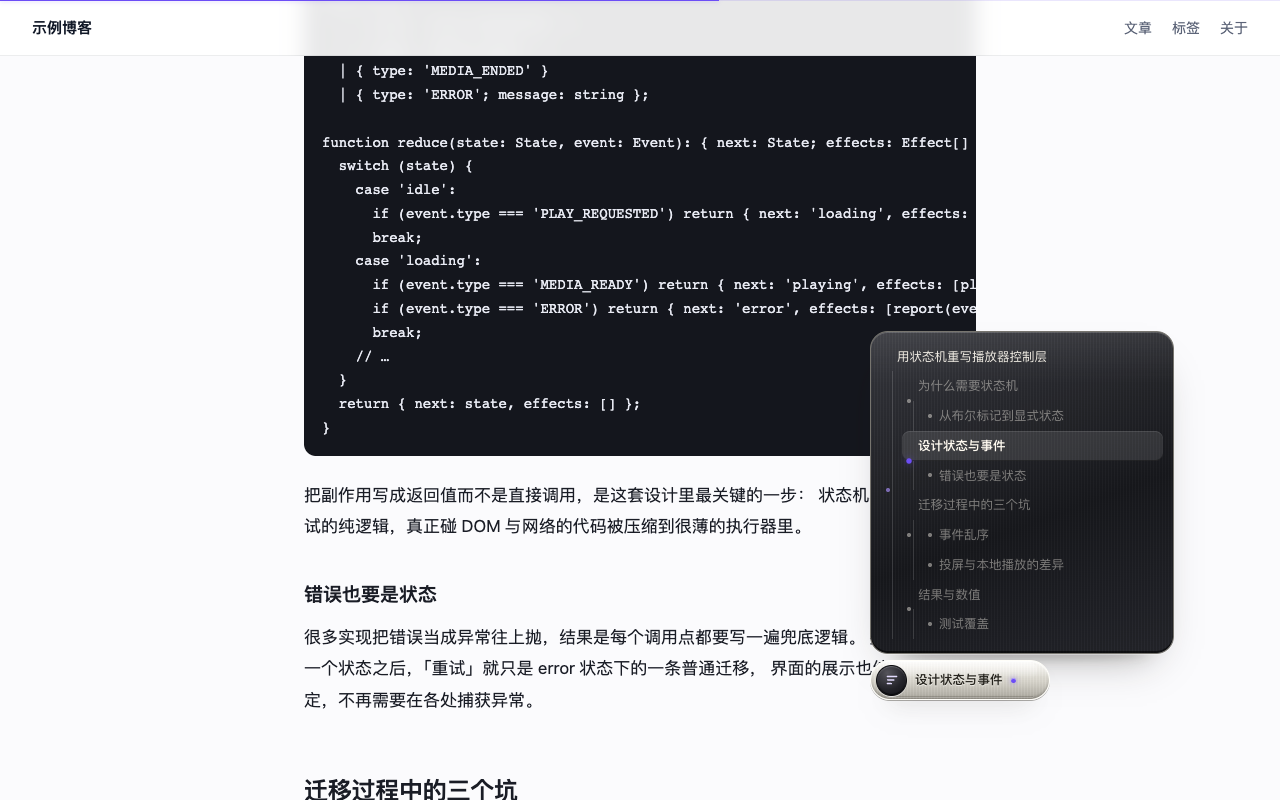
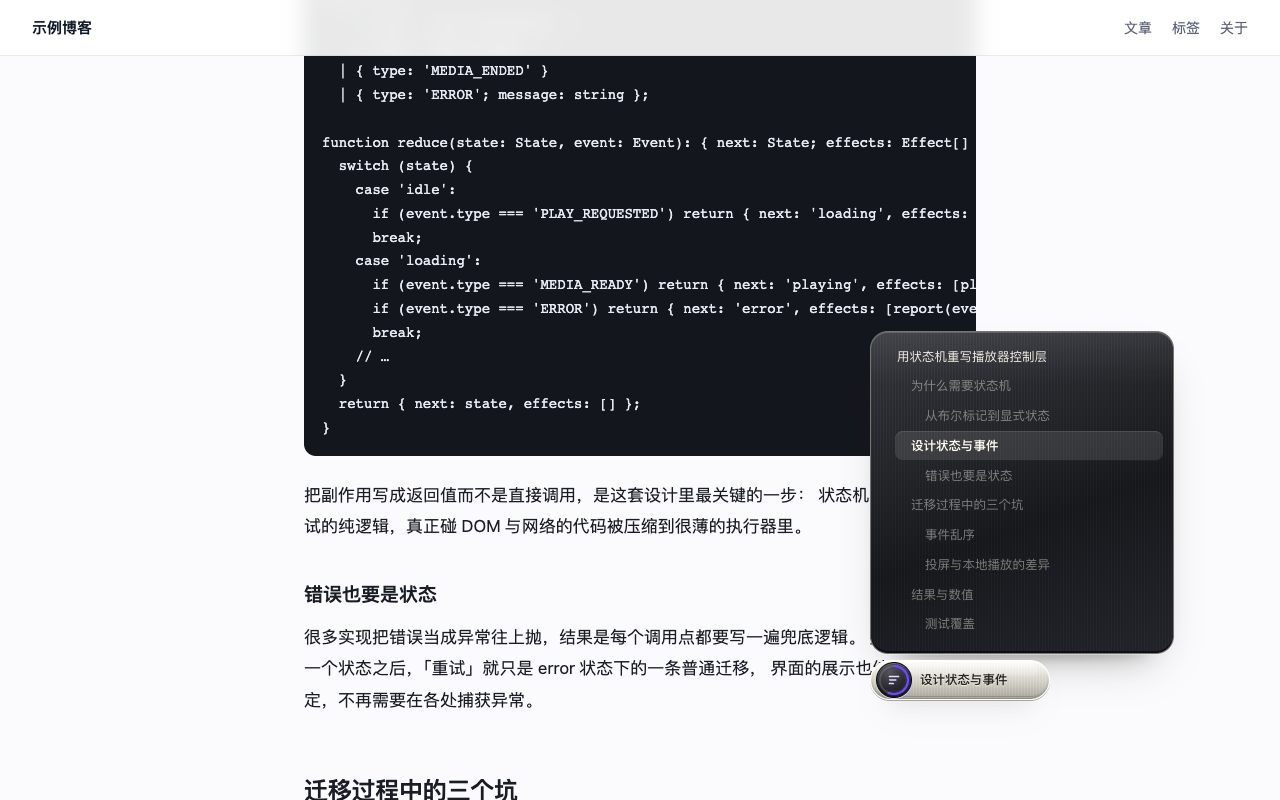
v0.13.3: integrate progress ring and simplify hierarchy

Changed region(s): [[0.6875, 0.4688, 0.8438, 0.7812], [0.6875, 0.8125, 0.7812, 0.875]]

diff --git a/src/content/ui.ts b/src/content/ui.ts
@@ -16,6 +16,7 @@ const ICON_SVG = `<svg width="14" height="14" viewBox="0 0 16 16" aria-hidden="t
 const CLOSE_DELAY = 260;
 
 const EMPTY_SNAPSHOT: TrackerSnapshot = { index: -1, path: [], progress: 0 };
+const PROGRESS_RING_CIRCUMFERENCE = 88;
 
 export interface Presentation {
   /** 当前策略是否允许显示（路径存在 + 显示策略判定） */
@@ -39,8 +40,8 @@ export class StickyUI {
   private root: HTMLDivElement | null = null;
   private pill: HTMLDivElement | null = null;
   private chapterTitle: HTMLElement | null = null;
-  private progressLayer: HTMLDivElement | null = null;
-  private progressFill: HTMLElement | null = null;
+  private progressBadge: HTMLElement | null = null;
+  private progressRing: SVGCircleElement | null = null;
   private below: HTMLDivElement | null = null;
   private drawer: HTMLDivElement | null = null;
   private drawerPath: HTMLDivElement | null = null;
@@ -96,12 +97,6 @@ export class StickyUI {
     style.textContent = styleText;
     shadow.appendChild(style);
 
-    const progressLayer = document.createElement('div');
-    progressLayer.className = 'wss-global-progress';
-    progressLayer.dataset.visible = 'false';
-    progressLayer.style.setProperty('--wss-z-index', String(Z_INDEX));
-    progressLayer.innerHTML = '<i></i>';
-
     const root = document.createElement('div');
     root.className = 'wss-root';
     root.dataset.visible = 'false';
@@ -114,10 +109,16 @@ export class StickyUI {
     root.setAttribute('aria-label', '当前章节位置');
     root.innerHTML = `
       <div class="wss-pill" part="pill">
-        <span class="wss-icon">${ICON_SVG}</span>
+        <span class="wss-icon-badge" role="progressbar" aria-label="整篇阅读进度"
+              aria-valuemin="0" aria-valuemax="100" aria-valuenow="0">
+          <svg class="wss-progress-svg" viewBox="0 0 34 34" aria-hidden="true">
+            <circle class="wss-progress-track" cx="17" cy="17" r="14"></circle>
+            <circle class="wss-progress-ring" cx="17" cy="17" r="14"></circle>
+          </svg>
+          <span class="wss-icon">${ICON_SVG}</span>
+        </span>
         <div class="wss-title" data-wss-role="heading" role="button" tabindex="0"
              aria-label="展开或固定文章目录"></div>
-        <span class="wss-led" aria-hidden="true"></span>
       </div>
       <div class="wss-below">
         <div class="wss-drawer" part="drawer">
@@ -127,14 +128,13 @@ export class StickyUI {
       </div>
     `;
     shadow.appendChild(root);
-    shadow.appendChild(progressLayer);
 
     this.host = host;
     this.root = root;
     this.pill = root.querySelector<HTMLDivElement>('.wss-pill');
     this.chapterTitle = root.querySelector<HTMLElement>('.wss-title');
-    this.progressLayer = progressLayer;
-    this.progressFill = progressLayer.querySelector<HTMLElement>('i');
+    this.progressBadge = root.querySelector<HTMLElement>('.wss-icon-badge');
+    this.progressRing = root.querySelector<SVGCircleElement>('.wss-progress-ring');
     this.below = root.querySelector<HTMLDivElement>('.wss-below');
     this.drawer = root.querySelector<HTMLDivElement>('.wss-drawer');
     this.drawerPath = root.querySelector<HTMLDivElement>('.wss-drawer-path');
@@ -193,8 +193,8 @@ export class StickyUI {
     this.root = null;
     this.pill = null;
     this.chapterTitle = null;
-    this.progressLayer = null;
-    this.progressFill = null;
+    this.progressBadge = null;
+    this.progressRing = null;
     this.below = null;
     this.drawer = null;
     this.drawerPath = null;
@@ -223,7 +223,6 @@ export class StickyUI {
   setZIndex(value: number): void {
     const zIndex = String(Math.max(1, Math.round(value)));
     this.root?.style.setProperty('--wss-z-index', zIndex);
-    this.progressLayer?.style.setProperty('--wss-z-index', zIndex);
   }
 
   setPosition(position: PillPosition): void {
@@ -280,11 +279,13 @@ export class StickyUI {
     root.dataset.visible = String(visible);
     root.dataset.dim = String(visible && presentation.dim);
     root.dataset.compact = String(presentation.compact);
-    // 整篇进度线是全局阅读反馈，不跟胶囊的智能显隐一起消失。
-    if (this.progressLayer) this.progressLayer.dataset.visible = 'true';
-    if (this.progressFill) {
-      this.progressFill.style.width = `${(snapshot.progress * 100).toFixed(1)}%`;
+    const progress = Math.min(1, Math.max(0, snapshot.progress));
+    if (this.progressRing) {
+      this.progressRing.style.strokeDashoffset = String(
+        PROGRESS_RING_CIRCUMFERENCE * (1 - progress),
+      );
     }
+    this.progressBadge?.setAttribute('aria-valuenow', String(Math.round(progress * 100)));
     if (!visible) {
       this.unpin();
       this.currentIndex = -2;
@@ -737,7 +738,6 @@ export class StickyUI {
       const prefersDark = this.mediaQuery ? this.mediaQuery.matches : false;
       const resolved = this.themeMode === 'auto' ? (prefersDark ? 'dark' : 'light') : this.themeMode;
       this.root.dataset.theme = resolved;
-      if (this.progressLayer) this.progressLayer.dataset.theme = resolved;
     });
   };
 }

diff --git a/src/content/style.css b/src/content/style.css
@@ -65,36 +65,6 @@
   --wss-brand: #b1a1ff;
 }
 
-.wss-global-progress {
-  position: fixed;
-  z-index: var(--wss-z-index, 2147483600);
-  top: 0;
-  right: 0;
-  left: 0;
-  height: 1px;
-  background: color-mix(in srgb, var(--wss-brand, #6c4df6) 14%, transparent);
-  pointer-events: none;
-  opacity: 1;
-  transition: opacity 0.18s ease;
-}
-
-.wss-global-progress[data-theme='dark'] {
-  --wss-brand: #b1a1ff;
-}
-
-.wss-global-progress[data-visible='false'] {
-  opacity: 0;
-}
-
-.wss-global-progress > i {
-  display: block;
-  width: 0%;
-  height: 100%;
-  background: var(--wss-brand, #6c4df6);
-  box-shadow: 0 1px 4px color-mix(in srgb, var(--wss-brand, #6c4df6) 38%, transparent);
-  transition: width 0.12s linear;
-}
-
 .wss-root[data-visible='false'] {
   visibility: hidden;
   opacity: 0;
@@ -213,14 +183,14 @@
     0 1px 0 rgb(255 255 255 / 34%);
 }
 
-.wss-icon {
+.wss-icon-badge {
   position: relative;
   z-index: 1;
   display: grid;
   place-items: center;
   flex: none;
-  width: 29px;
-  height: 29px;
+  width: 34px;
+  height: 34px;
   border: 1px solid #0c0c0f;
   border-radius: 50%;
   background: radial-gradient(circle at 36% 24%, #55545b, #232329 58%, #0e0e11);
@@ -228,6 +198,43 @@
     inset 0 1px 1px rgb(255 255 255 / 22%),
     inset 0 -1px 1px rgb(0 0 0 / 72%),
     0 1px 0 rgb(255 255 255 / 72%);
+}
+
+.wss-progress-svg {
+  position: absolute;
+  inset: 0;
+  width: 34px;
+  height: 34px;
+  rotate: -90deg;
+  pointer-events: none;
+}
+
+.wss-progress-track,
+.wss-progress-ring {
+  fill: none;
+  stroke-width: 2;
+}
+
+.wss-progress-track {
+  stroke: rgb(255 255 255 / 14%);
+}
+
+.wss-progress-ring {
+  stroke: var(--wss-brand);
+  stroke-dasharray: 88;
+  stroke-dashoffset: 88;
+  stroke-linecap: round;
+  filter: drop-shadow(0 0 2px color-mix(in srgb, var(--wss-brand) 72%, transparent));
+  transition: stroke-dashoffset 0.16s linear;
+}
+
+.wss-icon {
+  position: relative;
+  z-index: 1;
+  display: grid;
+  place-items: center;
+  width: 25px;
+  height: 25px;
   color: #e4dcff;
 }
 
@@ -250,19 +257,6 @@
   outline: 2px solid #8769ff;
   outline-offset: 2px;
   border-radius: 5px;
-}
-
-.wss-led {
-  position: relative;
-  z-index: 1;
-  flex: none;
-  width: 5px;
-  height: 5px;
-  border-radius: 50%;
-  background: var(--wss-brand);
-  box-shadow:
-    0 0 6px color-mix(in srgb, var(--wss-brand) 78%, transparent),
-    inset 0 1px 0 rgb(255 255 255 / 45%);
 }
 
 /* ── 深色内嵌目录面板 ───────────────────────────────── */
@@ -436,9 +430,7 @@
 }
 
 .wss-outline-level[data-depth] {
-  margin-left: 11px;
-  padding-left: 9px;
-  border-left: 1px solid var(--wss-panel-line);
+  margin-left: 14px;
 }
 
 .wss-outline-level[data-depth] .wss-row {
@@ -470,19 +462,6 @@
   transition: background-color 0.14s ease, color 0.14s ease, box-shadow 0.14s ease;
 }
 
-.wss-row::before {
-  content: '';
-  position: absolute;
-  top: 50%;
-  left: 5px;
-  width: 4px;
-  height: 4px;
-  margin-top: -2px;
-  border-radius: 50%;
-  background: var(--wss-panel-faint);
-  transition: background-color 0.14s ease, box-shadow 0.14s ease, scale 0.14s ease;
-}
-
 .wss-row:hover {
   background: var(--wss-panel-hover);
   color: var(--wss-panel-fg);
@@ -497,10 +476,6 @@
   color: var(--wss-panel-fg);
 }
 
-.wss-row[data-in-path='true']::before {
-  background: rgb(172 146 255 / 64%);
-}
-
 .wss-row[data-current='true'] {
   background: var(--wss-panel-current);
   box-shadow:
@@ -512,12 +487,6 @@
 
 .wss-outline-level[data-depth] .wss-row[data-current='true'] {
   color: #fffaf0;
-}
-
-.wss-row[data-current='true']::before {
-  background: var(--wss-brand);
-  box-shadow: 0 0 6px color-mix(in srgb, var(--wss-brand) 70%, transparent);
-  scale: 1.35;
 }
 
 .wss-drawer::-webkit-scrollbar {
@@ -534,7 +503,7 @@
   .wss-root,
   .wss-pill,
   .wss-drawer,
-  .wss-global-progress > i,
+  .wss-progress-ring,
   .wss-crumb,
   .wss-row {
     transition: none;

diff --git a/src/popup/popup.html b/src/popup/popup.html
@@ -277,7 +277,7 @@
 
     <footer>
       <button class="link" id="options" type="button">更多设置</button>
-      <span id="version">v0.13.2</span>
+      <span id="version">v0.13.3</span>
     </footer>
 
     <script type="module" src="./popup.ts"></script>

diff --git a/README.md b/README.md
@@ -19,7 +19,7 @@ TopClip 现在只有一种稳定形态：**可自由拖动的拟物章节胶囊*
 - 窗口缩放后会重新夹在可视区域内，不会留下一个点不到的控件。
 - 胶囊采用拉丝金属外壳与深色内嵌目录屏：实体高光、机械缝线、状态灯和一致的字体层级。
 - 目录不显示“文章目录”标题、百分比或额外滚动条，只保留章节路径和大纲。
-- 页面顶部保留一条 1px 紫色整篇阅读进度线。胶囊在智能模式下收起时，进度线仍然可见。
+- 整篇阅读进度环绕在左侧拟物徽标外圈：读得越多圆环越完整，读到文末正好闭合。
 
 早期版本的全宽无痕吸顶、网页标题克隆、列宽对齐和轻提示模式已经移除。它们对页面结构要求过高，
 容易在不同网站上产生错位或遮挡；TopClip 不再尝试改造网页，而是提供一个独立、克制、可控的阅读辅助层。
@@ -50,9 +50,9 @@ TopClip 现在只有一种稳定形态：**可自由拖动的拟物章节胶囊*
 
 **阅读进度**
 
-- 紫色 1px 进度线表示整篇文章进度，而不是单个小节进度。
-- 0% 从正文进入阅读区域开始，读到正文末尾时为 100%。
-- 进度线固定在视口 `y=0`，不依赖网页主题色，也不会覆盖页面内容。
+- 左侧拟物徽标外圈显示整篇文章进度，而不是单个小节进度。
+- 0% 从正文进入阅读区域开始，读到正文末尾时圆环完整闭合。
+- 进度不再占用网页顶部，也不会在胶囊收起后留下一条孤立横线。
 
 **站点与隐私**
 

diff --git a/store/listing.md b/store/listing.md
@@ -7,7 +7,7 @@
 | 字段 | 内容 |
 | --- | --- |
 | 名称 | TopClip — 读长文，不掉线 |
-| 简短说明（132 字符内） | 读长文，不掉线：可拖动的拟物胶囊常显示当前章节，提醒你这一节在讲什么；悬停看目录，顶部显示整篇进度。 |
+| 简短说明（132 字符内） | 读长文，不掉线：可拖动的拟物胶囊常显示当前章节，提醒你这一节在讲什么；悬停看目录，徽标圆环显示整篇进度。 |
 | 类别 | 生产力工具（Productivity） |
 | 语言 | 中文（简体），可另加 English |
 | 官网 | 可选：项目仓库或介绍页 |
@@ -22,9 +22,9 @@ TopClip —— 读长文，不掉线。
 它不改造网页，也不伪造站点的标题：
 
 - 可自由拖动的拟物胶囊，位置按站点记忆，双击恢复默认
-- 拉丝金属外壳、深色内嵌目录屏与状态灯；目录只显示章节内容，不占额外滚动条空间
+- 拉丝金属外壳、深色内嵌目录屏；左侧徽标外圈随阅读进度逐渐闭合
 - 悬停查看按标题树组织的完整目录，点击平滑跳转到对应章节
-- 页面顶部 1px 紫色细线显示整篇文章进度，不依赖网页配色
+- 徽标圆环显示整篇文章进度，读到文末正好闭合，不占用网页顶部
 - 智能 / 常驻两种显示策略：向下阅读时浮现，或始终显示
 - 胶囊左边缘固定，标题过长时向右扩展；目录保持固定版心宽度并与胶囊左对齐
 - 原站已有目录时自动退让，避免两套目录互相干扰
